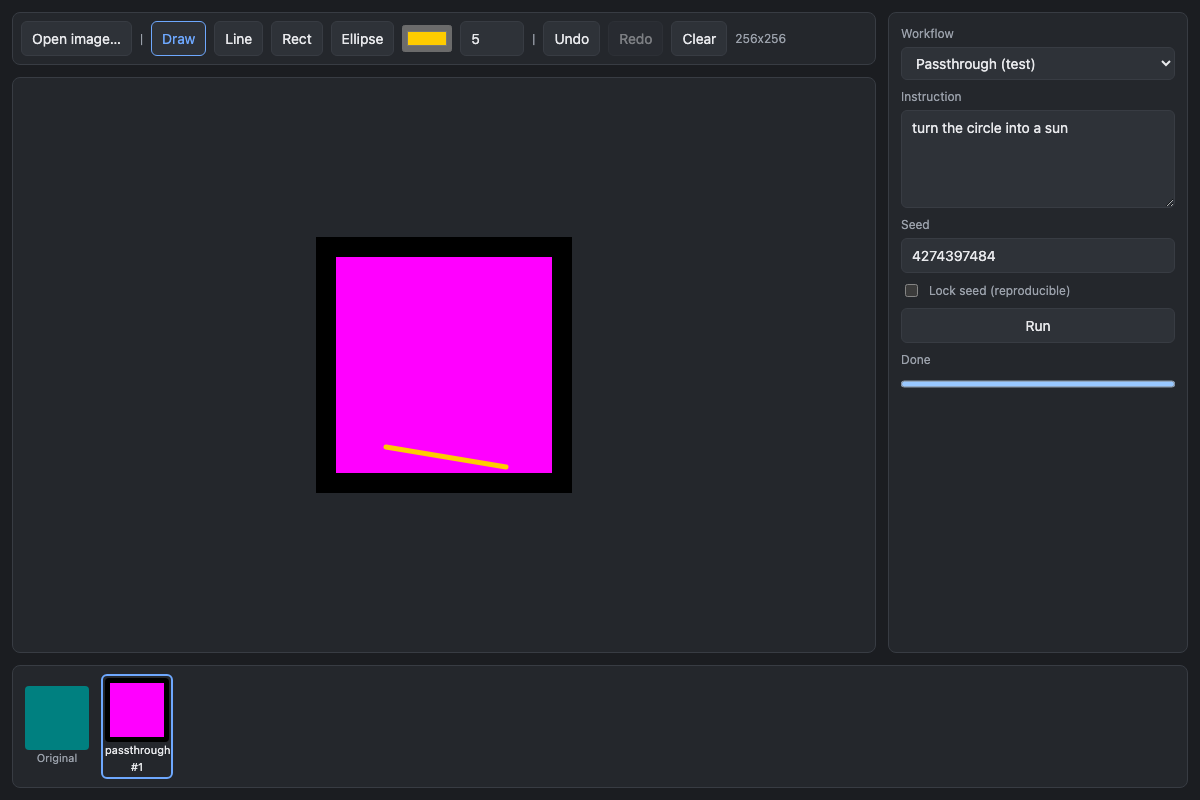
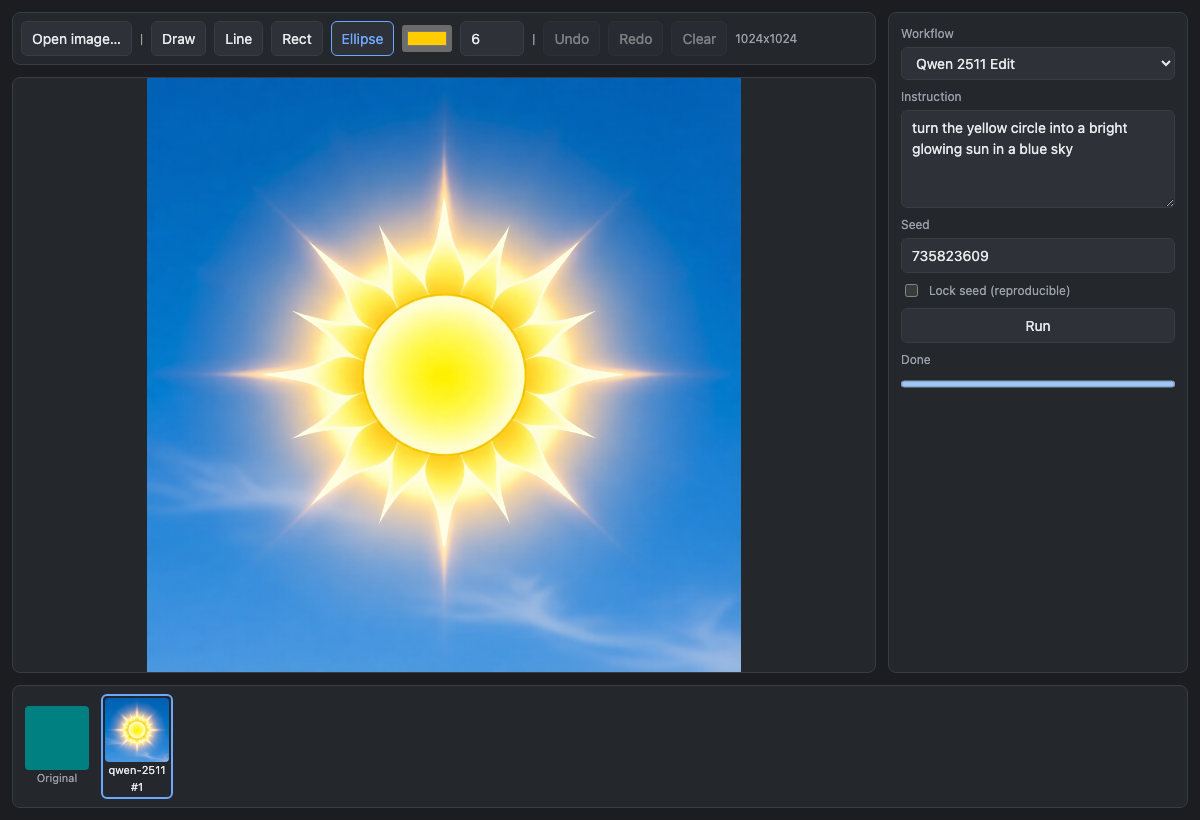
Fix 403 from real ComfyUI: rewrite the Origin header in the proxy
ComfyUI 0.31+ answers 403 to any request whose Origin header is not its
own host — every route, not just writes. changeOrigin: true rewrites
Host and leaves Origin exactly as the browser set it, which is the
failing combination. The proxy now rewrites Origin to the target on
both HTTP requests and the websocket upgrade.

Confirmed against the live instance: POST /upload/image with
Origin: http://127.0.0.1:5174 -> 403, identical request with
Origin: http://127.0.0.1:8188 -> 200.

The more important half is that the fake now enforces the same rule.
It previously accepted any Origin, which is exactly why the offline
suite was green while the real instance rejected everything. Verified
the fake catches it by reverting the proxy fix and watching the suite
go red.

Also fixes two things this surfaced: resetFake/configureFake now no-op
under COMFY_LIVE, since the fake is not started for live runs at all;
and the SC-007 test asserted the entire dropdown list, so it broke the
moment a real workflow was added to the manifest — the very thing it
exists to verify. It now asserts the added workflow appeared alongside
whatever was already configured.

Live end-to-end passes against Qwen-Image-Edit-2511. README screenshot
is now a real generation.

diff --git a/vite.config.ts b/vite.config.ts
@@ -6,6 +6,8 @@ export default defineConfig(({ mode }) => {
   const env = loadEnv(mode, process.cwd(), '')
   const target = process.env.COMFY_URL || env.COMFY_URL || 'http://127.0.0.1:8188'
 
+  const targetOrigin = new URL(target).origin
+
   // Same object for `server` and `preview`: `vite preview` ignores server.proxy.
   const proxy: Record<string, ProxyOptions> = {
     '/comfy': {
@@ -13,6 +15,17 @@ export default defineConfig(({ mode }) => {
       changeOrigin: true,
       ws: true,
       rewrite: (path: string) => path.replace(/^\/comfy/, ''),
+      configure: (proxyServer) => {
+        // ComfyUI (0.31+) rejects any request whose Origin header does not match
+        // its own host — 403 on every route, not just writes. `changeOrigin`
+        // rewrites Host but leaves Origin as the browser set it, so we have to
+        // rewrite Origin ourselves or nothing but the dev server's own assets load.
+        const setOrigin = (req: { setHeader(name: string, value: string): void }) => {
+          req.setHeader('origin', targetOrigin)
+        }
+        proxyServer.on('proxyReq', setOrigin)
+        proxyServer.on('proxyReqWs', setOrigin)
+      },
     },
   }
 

diff --git a/tests/e2e/workflow-config.spec.ts b/tests/e2e/workflow-config.spec.ts
@@ -47,8 +47,14 @@ test.describe('adding a workflow needs no code change', () => {
     await page.goto('/')
     await loadFixture(page)
 
+    // Assert the added workflow appeared alongside whatever was already
+    // configured — never the exact list, which would break the moment a real
+    // workflow is added to the manifest, which is the very thing being verified.
+    const before: string[] = JSON.parse(originalManifest).workflows.map(
+      (w: { label: string }) => w.label,
+    )
     const labels = await page.getByTestId(T.workflowSelect).locator('option').allTextContents()
-    expect(labels).toEqual(['Passthrough (test)', 'Second Workflow'])
+    expect(labels).toEqual([...before, 'Second Workflow'])
 
     await runTransformFlow(page, { workflow: 'second', prompt: 'via the added workflow' })
     expect(await centerPixel(page)).toEqual(MAGENTA)

diff --git a/tests/e2e/helpers.ts b/tests/e2e/helpers.ts
@@ -10,7 +10,11 @@ export const NOT_AN_IMAGE = fileURLToPath(new URL('../fixtures/not-an-image.txt'
 export const TEAL: [number, number, number] = [0, 128, 128]
 export const MAGENTA: [number, number, number] = [255, 0, 255]
 
+/** In @live runs the fake is not started at all, so its control plane is absent. */
+export const LIVE = !!process.env.COMFY_LIVE
+
 export async function resetFake(request: APIRequestContext): Promise<void> {
+  if (LIVE) return
   await request.post(`${FAKE}/__test/reset`)
 }
 
@@ -18,6 +22,7 @@ export async function configureFake(
   request: APIRequestContext,
   cfg: Record<string, unknown>,
 ): Promise<void> {
+  if (LIVE) return
   await request.post(`${FAKE}/__test/config`, { data: cfg })
 }
 

diff --git a/specs/001-comfy-edit/contracts/comfyui-api.md b/specs/001-comfy-edit/contracts/comfyui-api.md
@@ -9,6 +9,22 @@ rely on it.
 All paths are prefixed with `/comfy` from the browser's point of view; the dev server strips the
 prefix and forwards to `COMFY_URL`. Everything below describes the request as ComfyUI receives it.
 
+## 0. The `Origin` header — required on every route
+
+ComfyUI 0.31+ answers **403 to any request carrying an `Origin` header that is not its own host** —
+every route, not just writes, and regardless of method. A request with no `Origin` at all (curl,
+server-to-server) is accepted.
+
+The proxy must therefore rewrite `Origin` to the target's origin, on both HTTP requests and the
+WebSocket upgrade. **`changeOrigin: true` is not sufficient** — it rewrites `Host` and leaves
+`Origin` exactly as the browser set it, which is the failing combination.
+
+Verified against ComfyUI 0.31.0: `POST /upload/image` with `Origin: http://127.0.0.1:5174` → 403;
+the identical request with `Origin: http://127.0.0.1:8188` → 200.
+
+The fake server enforces the same rule, so a proxy that forwards the browser's `Origin` fails the
+offline suite rather than only failing against a real instance.
+
 ---
 
 ## 1. `POST /upload/image` — send the composited canvas

diff --git a/README.md b/README.md
@@ -153,6 +153,7 @@ ComfyUI protocol and the workflow manifest format.
 
 | Symptom | Cause | Fix |
 |---|---|---|
+| `Upload failed (403)`, or 403 on every ComfyUI route | ComfyUI 0.31+ rejects requests whose `Origin` header isn't its own host | The proxy rewrites `Origin` to the target (`configure` hook in `vite.config.ts`). If you change the proxy config, keep that — `changeOrigin: true` only rewrites `Host`. |
 | Run stalls at "queued" forever | WebSocket upgrade reaching ComfyUI as `/comfy/ws` | The run should still finish via history polling. Check the proxy's `ws: true` and rewrite. |
 | `value not in list: …safetensors` | The model isn't on the GPU box | Download it there; this app never installs models |
 | Startup banner about a workflow | Manifest node ids don't match the graph | Fix them; the banner lists the ids that exist |
